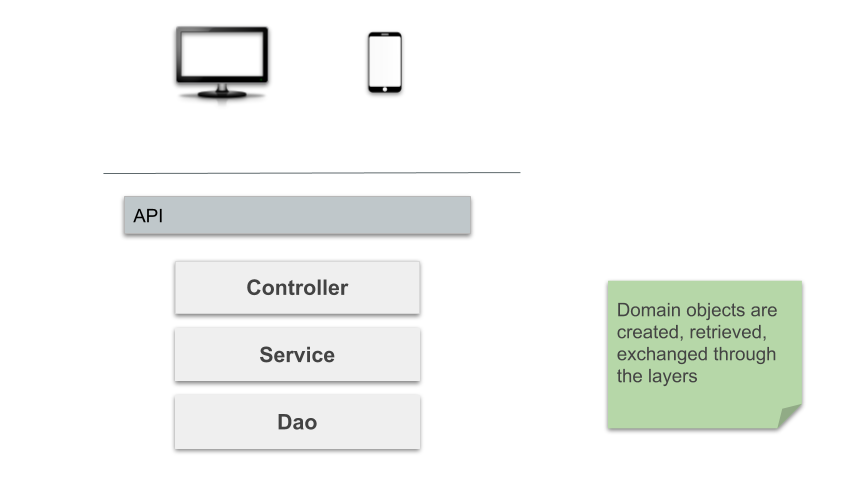
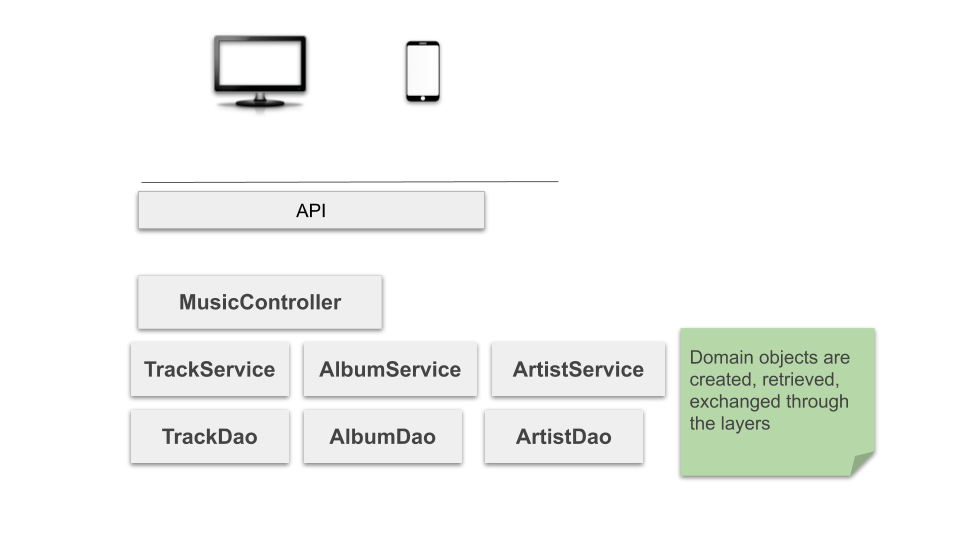
adds updated arch diagram

diff --git a/src/main/java/com/inspire/musicservice/MusicController.java b/src/main/java/com/inspire/musicservice/MusicController.java
@@ -12,7 +12,7 @@ import org.springframework.web.bind.annotation.RequestMethod;
 import org.springframework.web.bind.annotation.RestController;
 
 @RestController
-public class HelloController {
+public class MusicController {
     
     @Autowired
     private ArtistService artistService;
